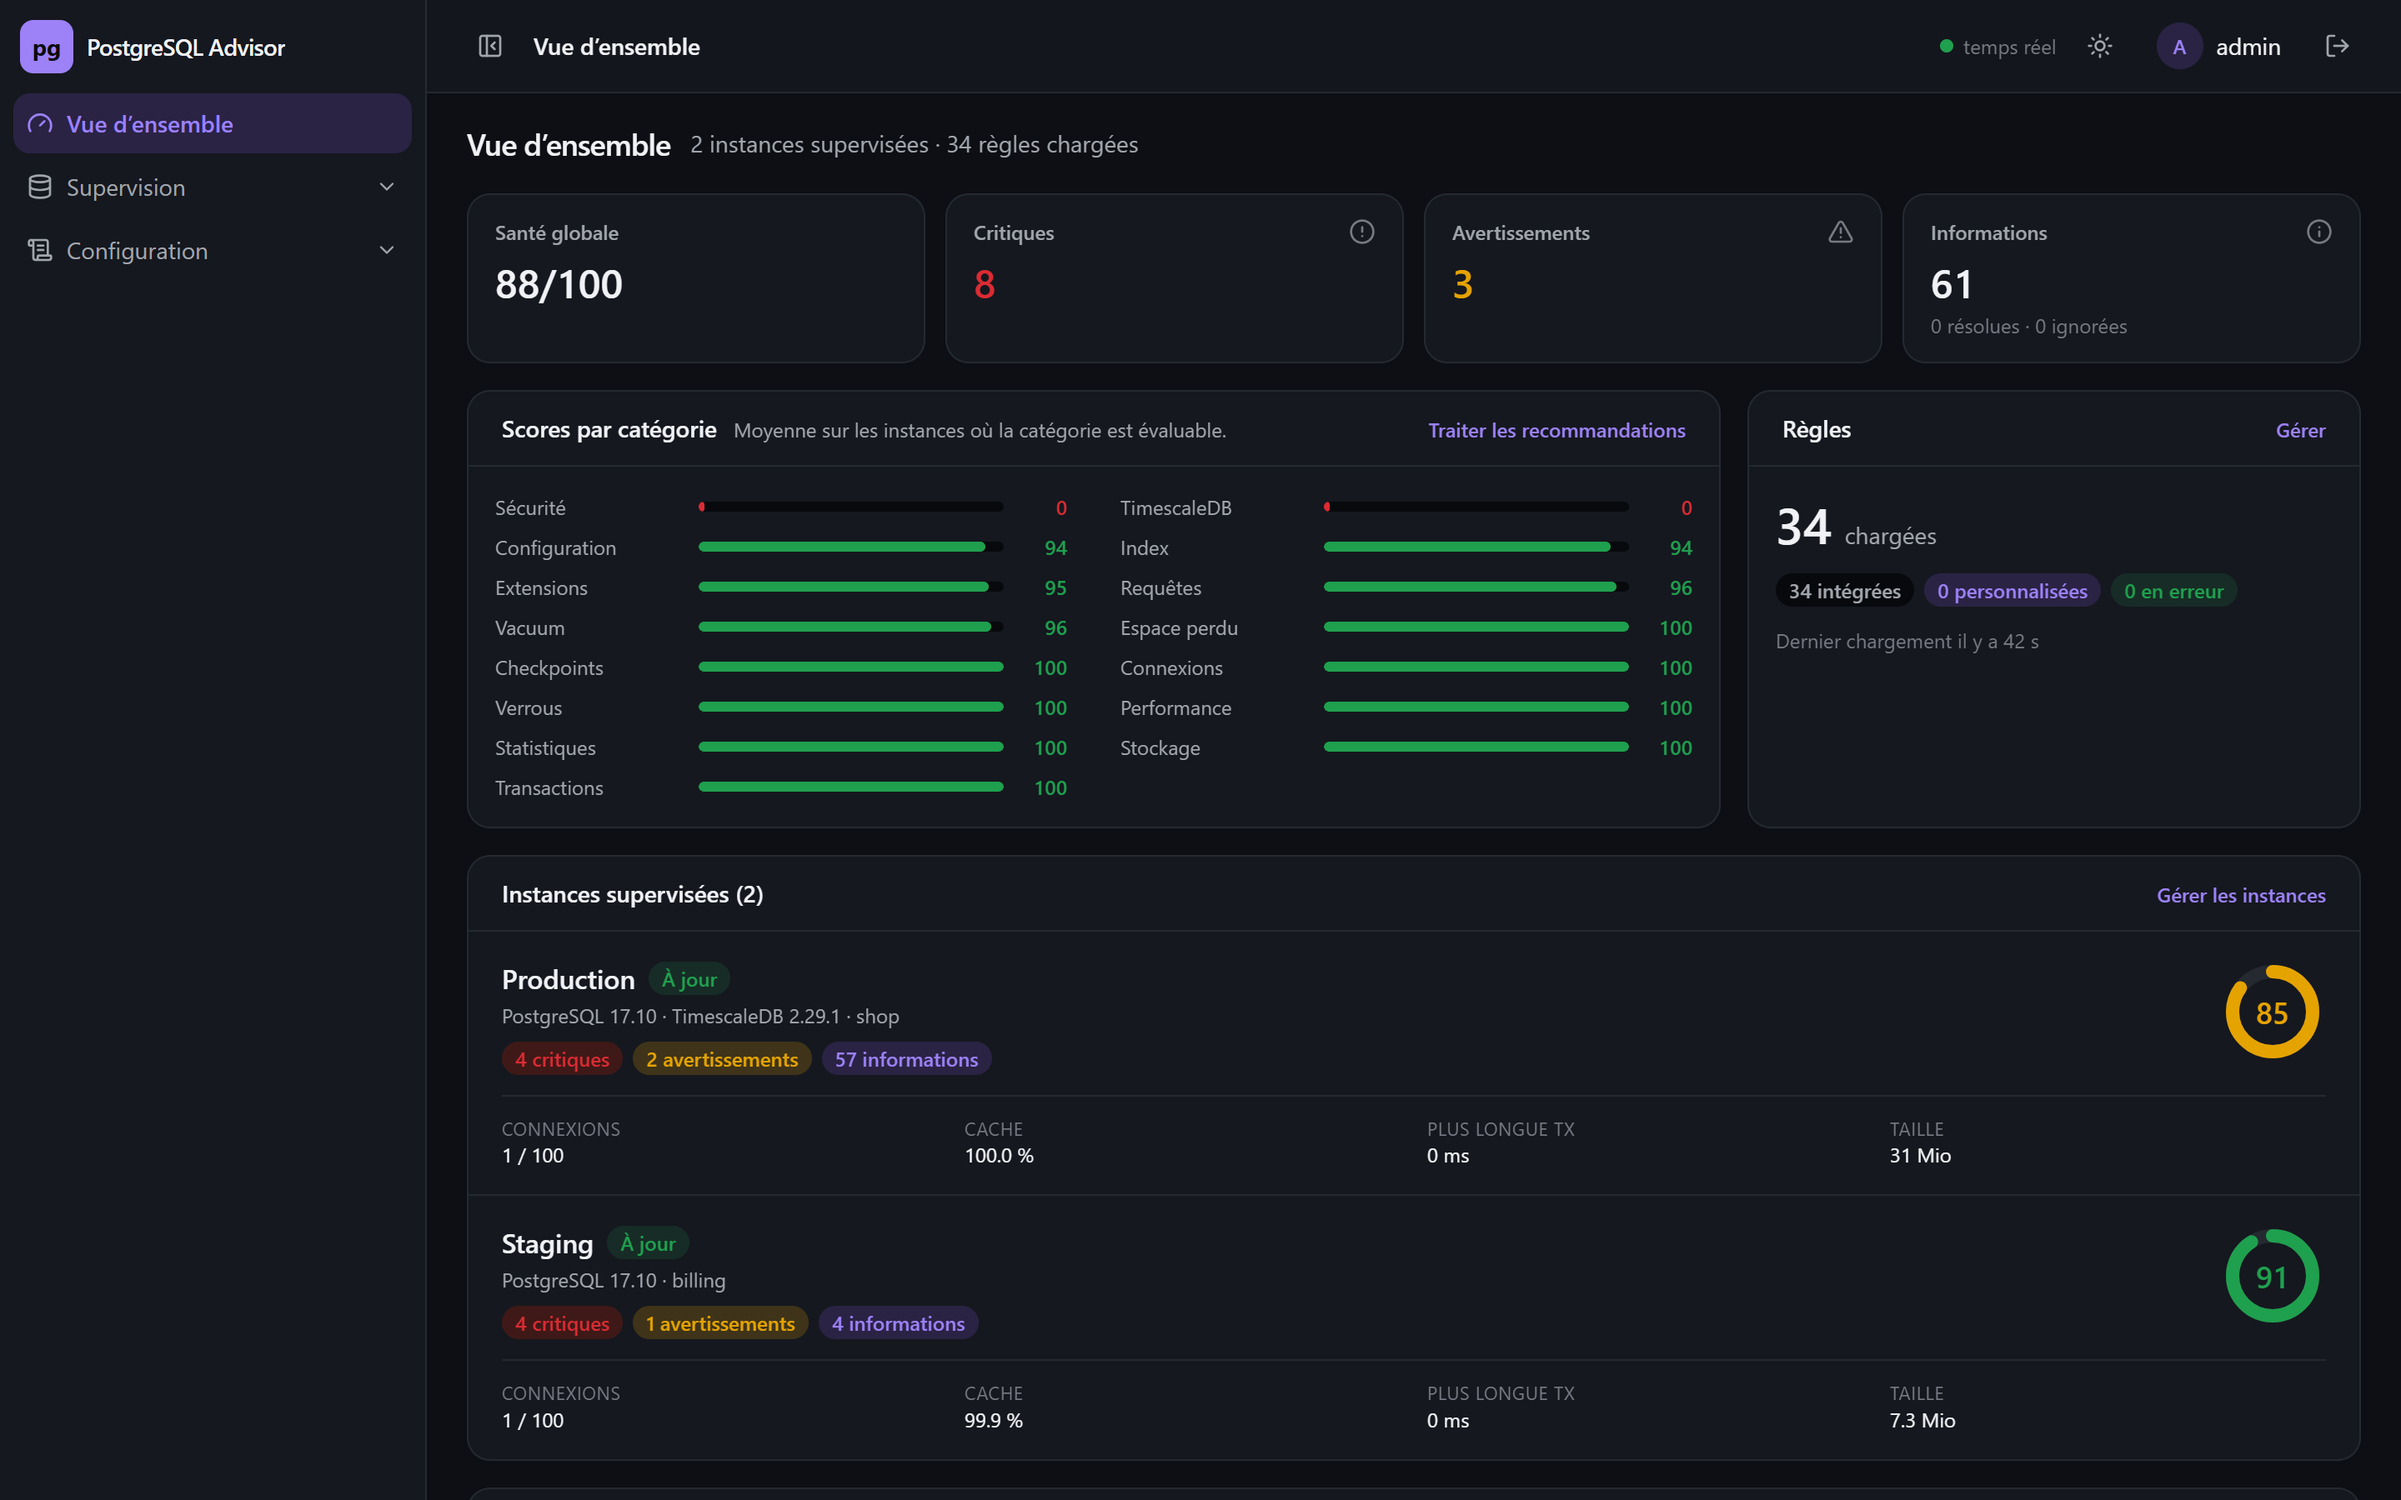
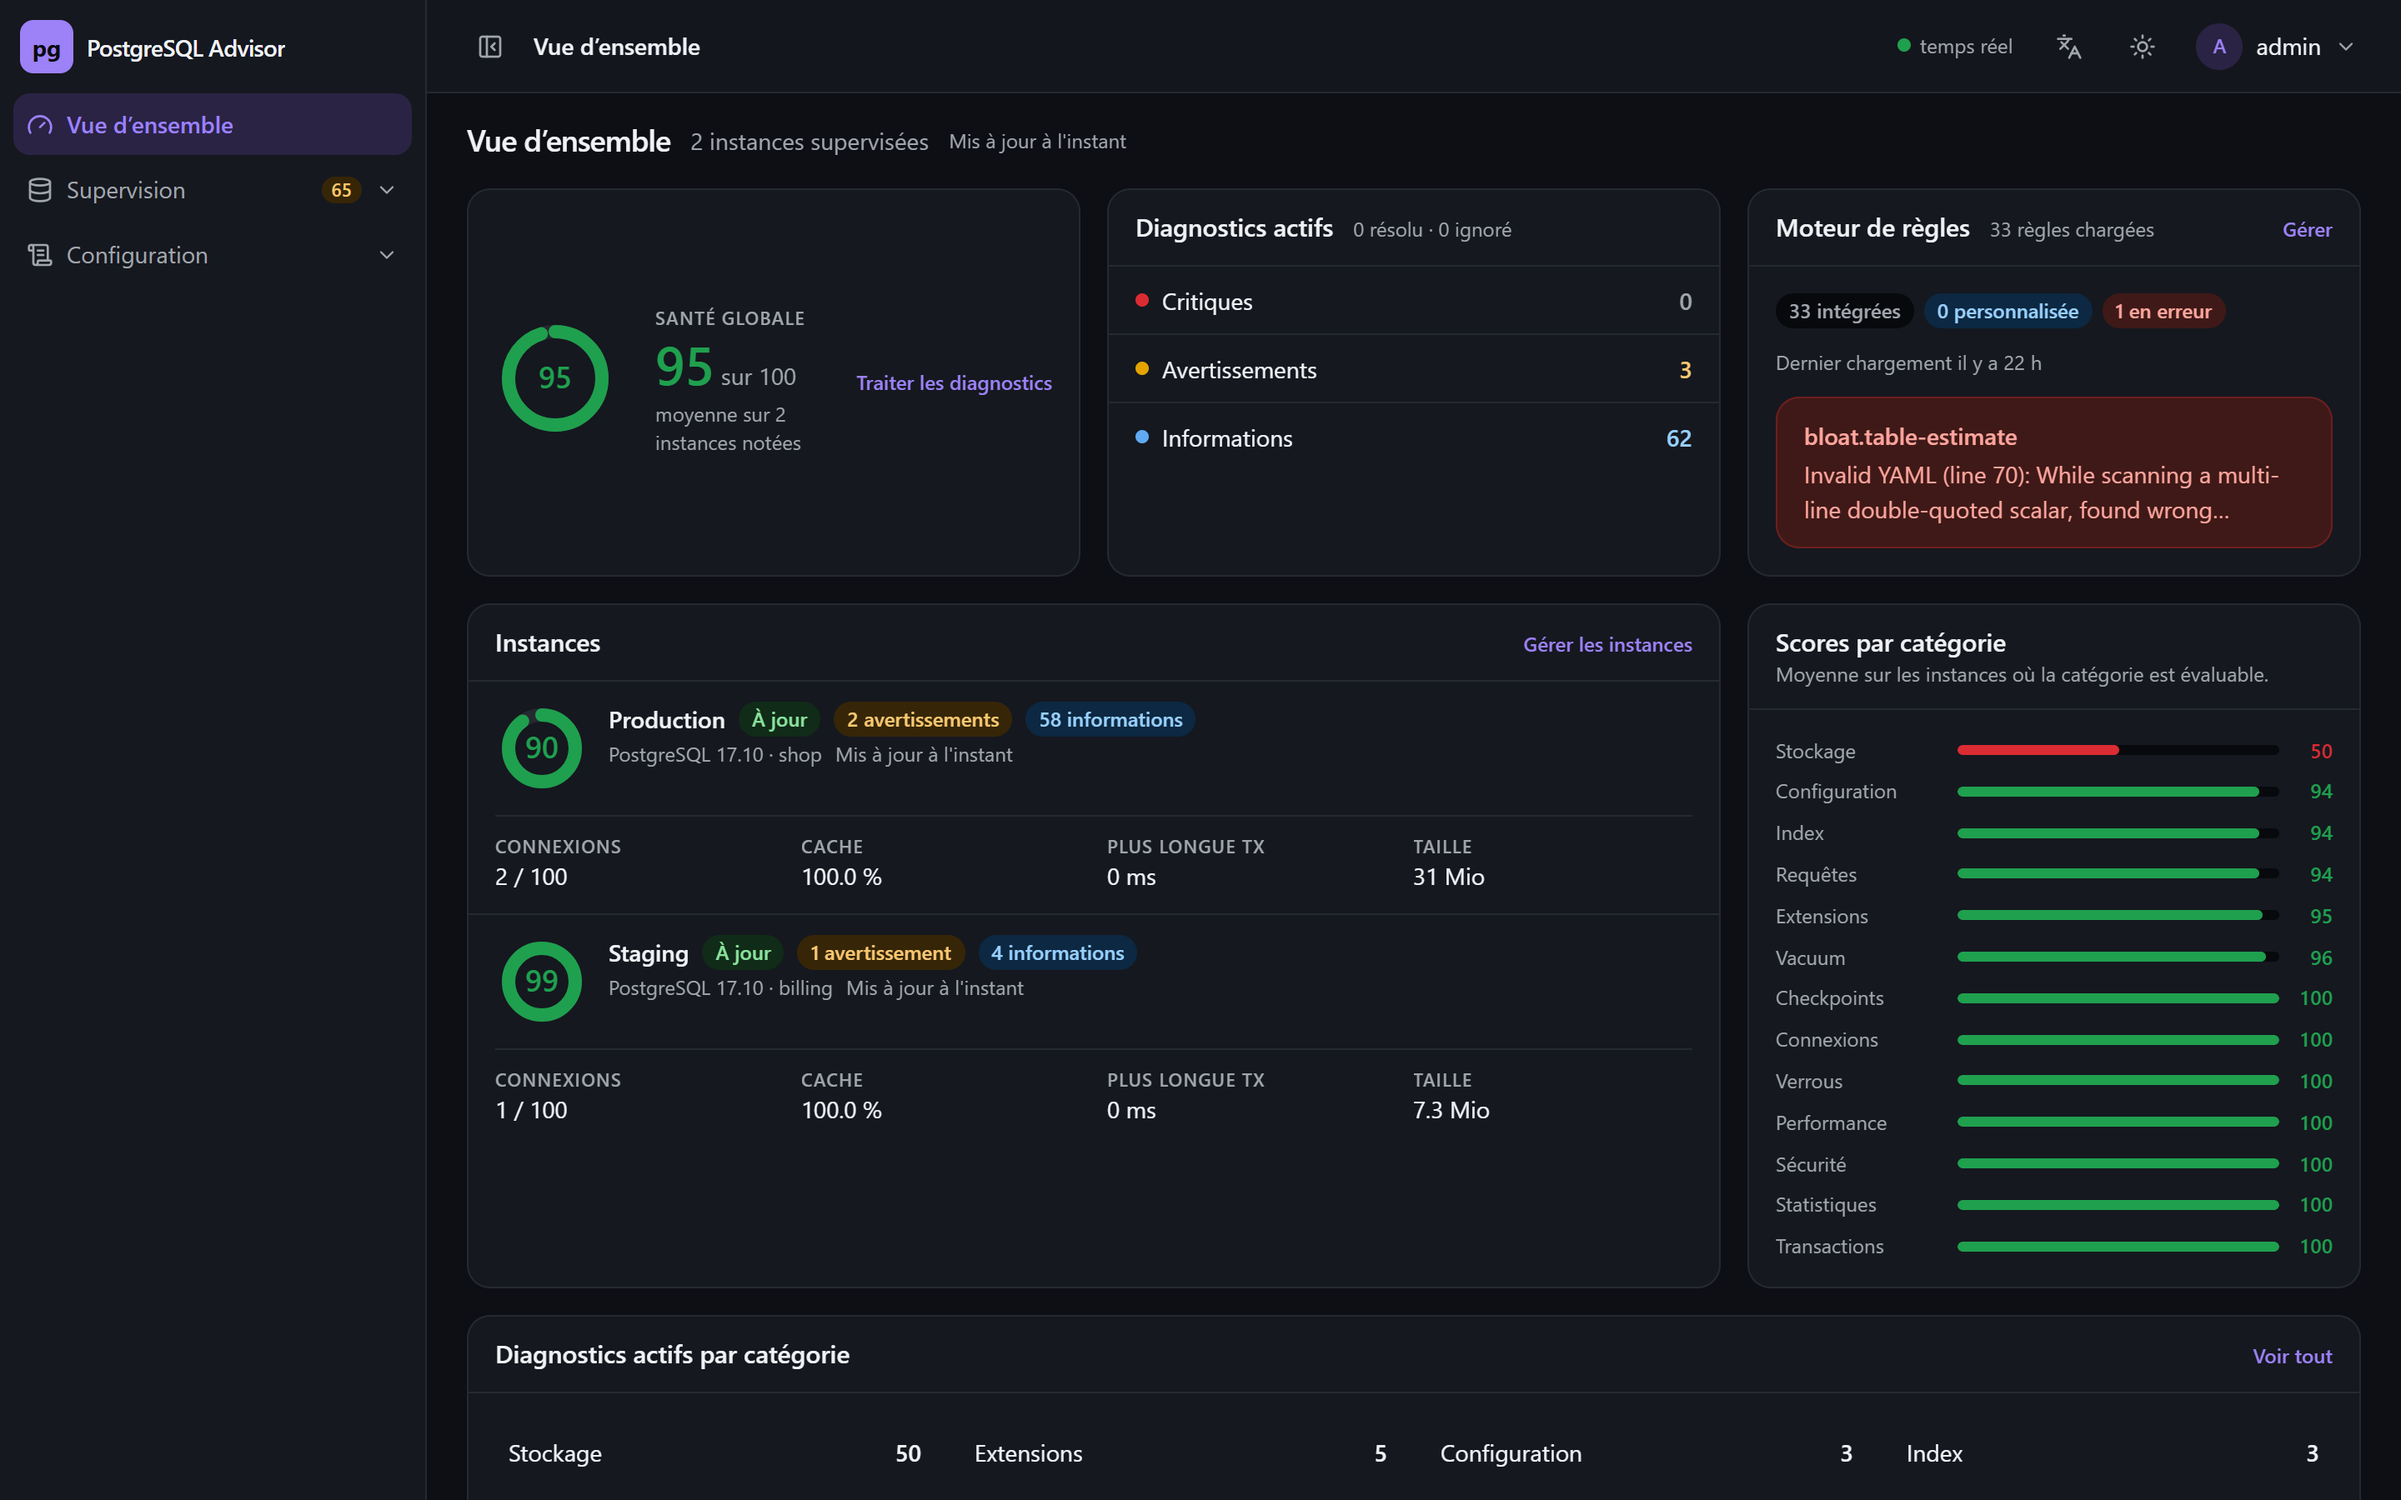
Port publiable, règle de bloat réparée, captures refaites
Le port de l'hôte était figé à 8080 dans docker-compose.yml : sur une machine où
il est déjà pris, « Bind for :::8080 failed » n'offrait aucune issue sans éditer
le fichier. Il devient PGADVISOR_PORT, avec 8080 par défaut. Là où l'hébergeur
impose son port et ne laisse rien publier, c'est le port d'écoute interne qu'il
faut déplacer — ASPNETCORE_HTTP_PORTS —, et les deux leviers sont documentés.

La règle bloat.table-estimate ne se chargeait pas : sa commande SQL corrective
était une chaîne entre guillemets coupée en deux lignes, ce que YAML refuse si la
continuation n'est pas indentée. Un bloc littéral règle la question. Le moteur
annonçait « 33 rules loaded, 1 in error » depuis un moment ; il annonce
maintenant 34. C'est la capture d'écran qui l'a montré.

La liste d'auto-complétion se choisit aussi à la souris : le clic ne fait plus
perdre le focus à la saisie, le survol déplace la sélection, et la liste suit la
sélection au clavier plutôt que de laisser l'entrée courante sortir du cadre.

Six des dix captures sont refaites sur une pile reconstruite et réensemencée.
Les quatre autres — détail d'un diagnostic, valeurs proposées, plan d'exécution,
détail d'un nœud — demandent une navigation dans des vues virtualisées que le
script ne sait pas encore atteindre ; elles restent celles d'avant.

diff --git a/src/pg-advisor-web/src/lib/yamlHighlight.tsx b/src/pg-advisor-web/src/lib/yamlHighlight.tsx
@@ -1,4 +1,4 @@
-import { useCallback, useRef, useState, type ReactNode, type RefObject } from 'react'
+import { useCallback, useEffect, useRef, useState, type ReactNode, type RefObject } from 'react'
 import type { Completion } from './yamlComplete'
 import { cn } from '@/lib/utils'
 
@@ -38,6 +38,9 @@ interface Token {
   kind: TokenKind
   value: string
 }
+
+/** Propositions affichées d'un coup : au-delà, la liste se parcourt plus qu'elle ne se lit. */
+const MAX_SUGGESTIONS = 40
 
 const LITERALS = new Set(['true', 'false', 'null', 'yes', 'no', 'on', 'off', '~'])
 
@@ -308,9 +311,18 @@ export function YamlEditor({
   const own = useRef<HTMLTextAreaElement>(null)
   const input = textareaRef ?? own
 
+  const list = useRef<HTMLDivElement>(null)
+
   const [completion, setCompletion] = useState<Completion | null>(null)
   const [active, setActive] = useState(0)
   const [caret, setCaret] = useState({ top: 0, left: 0 })
+
+  // La liste suit la sélection : descendre au clavier au-delà du cadre visible ne doit pas faire
+  // disparaître l'entrée courante. `nearest` évite de recentrer la liste à chaque pas.
+  useEffect(() => {
+    const option = list.current?.children[active]
+    option?.scrollIntoView({ block: 'nearest' })
+  }, [active, completion])
 
   /*
    * Position du curseur, calculée plutôt que mesurée.
@@ -477,25 +489,29 @@ export function YamlEditor({
       {/*
        * Liste des propositions, posée à l'endroit du curseur.
        *
-       * `pointer-events-none` sur le conteneur et non sur les entrées : un clic dans la liste
-       * ferait perdre le focus à la saisie avant que le clic n'aboutisse, et la liste se fermerait
-       * sous le curseur. On garde donc le clavier comme seul moyen de choisir — c'est aussi ce
-       * qu'on attend d'une complétion pendant la frappe.
+       * `onMouseDown` neutralisé sur le conteneur : sans cela, le clic ferait perdre le focus à la
+       * saisie avant d'aboutir, la liste se fermerait sous le curseur, et le choix à la souris
+       * serait impossible. Le clavier et la souris mènent donc au même geste.
        */}
       {completion && (
         <div
+          ref={list}
           role="listbox"
           aria-label={label}
           style={{ top: caret.top, left: caret.left }}
-          className="bg-surface border-border-subtle shadow-popover pointer-events-none absolute z-30 max-h-48 min-w-56 overflow-auto rounded-[var(--radius-control)] border p-1"
+          onMouseDown={(event) => event.preventDefault()}
+          className="bg-surface border-border-subtle shadow-popover absolute z-30 max-h-48 min-w-56 overflow-y-auto overscroll-contain rounded-[var(--radius-control)] border p-1"
         >
-          {completion.items.slice(0, 40).map((item, index) => (
-            <div
+          {completion.items.slice(0, MAX_SUGGESTIONS).map((item, index) => (
+            <button
               key={item.value}
+              type="button"
               role="option"
               aria-selected={index === active}
+              onMouseEnter={() => setActive(index)}
+              onClick={() => accept(index)}
               className={cn(
-                'flex items-baseline justify-between gap-3 rounded-[var(--radius-control)] px-2 py-1',
+                'flex w-full items-baseline justify-between gap-3 rounded-[var(--radius-control)] px-2 py-1 text-left',
                 index === active ? 'bg-brand-subtle text-brand font-medium' : 'text-ink',
               )}
             >
@@ -503,7 +519,7 @@ export function YamlEditor({
               {item.detail && (
                 <span className="text-ink-muted shrink-0 truncate text-micro">{item.detail}</span>
               )}
-            </div>
+            </button>
           ))}
         </div>
       )}

diff --git a/README.md b/README.md
@@ -156,10 +156,21 @@ paramètres après le passage de l'Advisor.
 ## Configuration
 
 Toutes les clés se surchargent par variable d'environnement, préfixe `PGADVISOR_`, `__` pour
-la hiérarchie.
+la hiérarchie. Les deux premières lignes échappent à ce préfixe : elles ne configurent pas
+l'application mais l'endroit où on l'atteint.
+
+```bash
+PGADVISOR_PORT=9090 docker compose up -d
+```
+
+Sur un hébergeur qui impose son port et ne laisse pas publier le vôtre, c'est le port d'écoute
+interne qu'il faut déplacer — `ASPNETCORE_HTTP_PORTS=9090`, ou `PORT` recopié dedans si la
+plateforme n'expose que celui-là.
 
 | Clé | Rôle | Défaut |
 | --- | --- | --- |
+| `PGADVISOR_PORT` | Port publié sur l'hôte par `docker-compose.yml` | `8080` |
+| `ASPNETCORE_HTTP_PORTS` | Port d'écoute **dans** le conteneur, pour un hébergeur qui l'impose | `8080` |
 | `DataDirectory` | Volume inscriptible : SQLite, clés, règles créées depuis l'IHM | `/app/data` en conteneur |
 | `RulesDirectory` | Règles intégrées, montables en lecture seule | `/app/rules` en conteneur |
 | `Auth__BootstrapPassword` | Mot de passe du compte `admin` créé au premier démarrage | généré et journalisé une fois |

diff --git a/README.en.md b/README.en.md
@@ -153,10 +153,21 @@ settings left behind after the Advisor has run.
 ## Configuration
 
 Every key can be overridden by environment variable, with the `PGADVISOR_` prefix and `__` for
-nesting.
+nesting. The first two rows escape that prefix: they configure where the application is reached,
+not the application itself.
+
+```bash
+PGADVISOR_PORT=9090 docker compose up -d
+```
+
+On a host that imposes its own port and will not let you publish yours, move the internal listening
+port instead — `ASPNETCORE_HTTP_PORTS=9090`, or copy `PORT` into it if the platform only exposes
+that one.
 
 | Key | Role | Default |
 | --- | --- | --- |
+| `PGADVISOR_PORT` | Host port published by `docker-compose.yml` | `8080` |
+| `ASPNETCORE_HTTP_PORTS` | Port the app listens on **inside** the container, for a host that imposes one | `8080` |
 | `DataDirectory` | Writable volume: SQLite, keys, rules created from the UI | `/app/data` in the container |
 | `RulesDirectory` | Bundled rules, mountable read-only | `/app/rules` in the container |
 | `Auth__BootstrapPassword` | Password of the `admin` account created on first start | generated and logged once |
